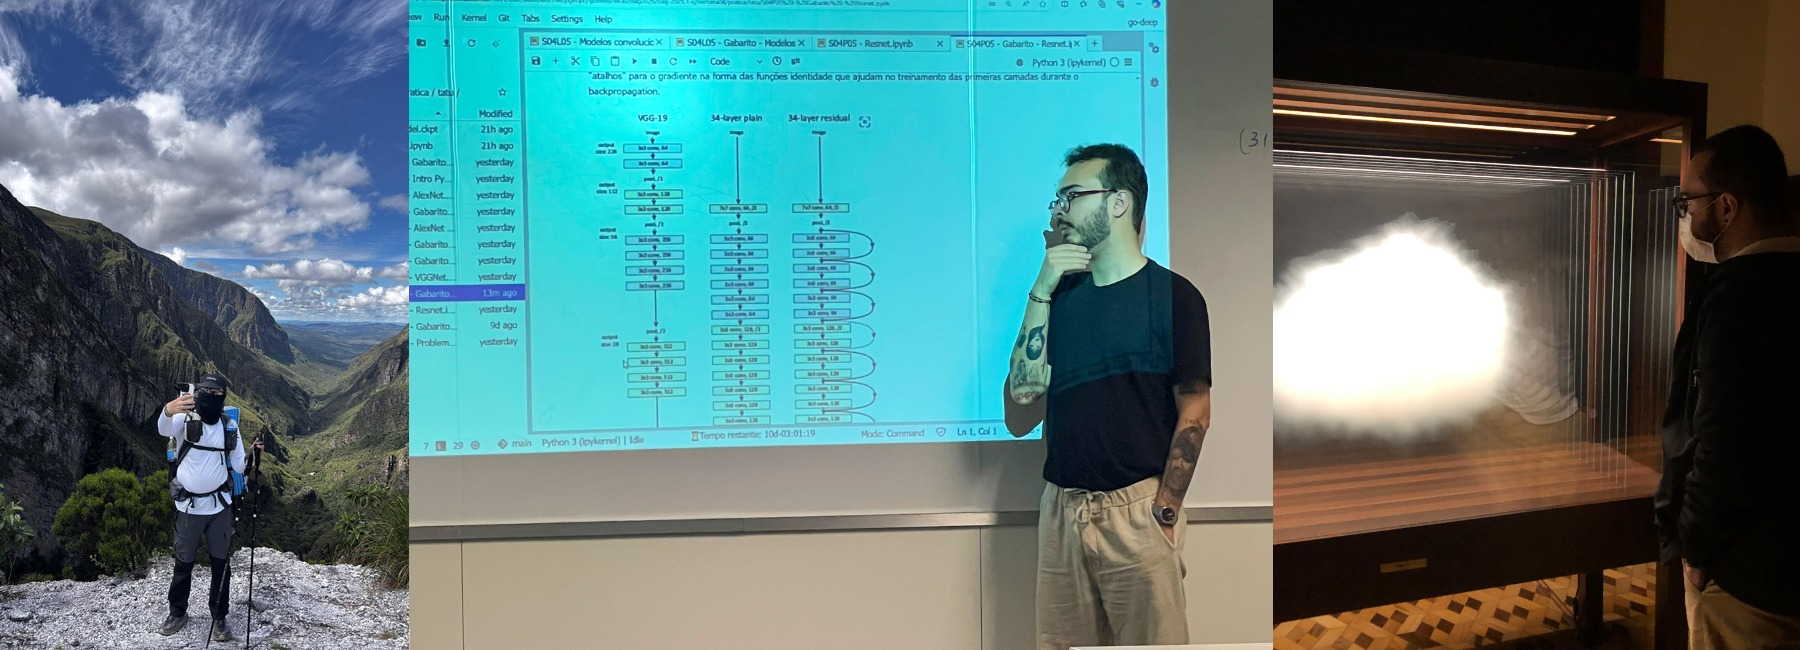
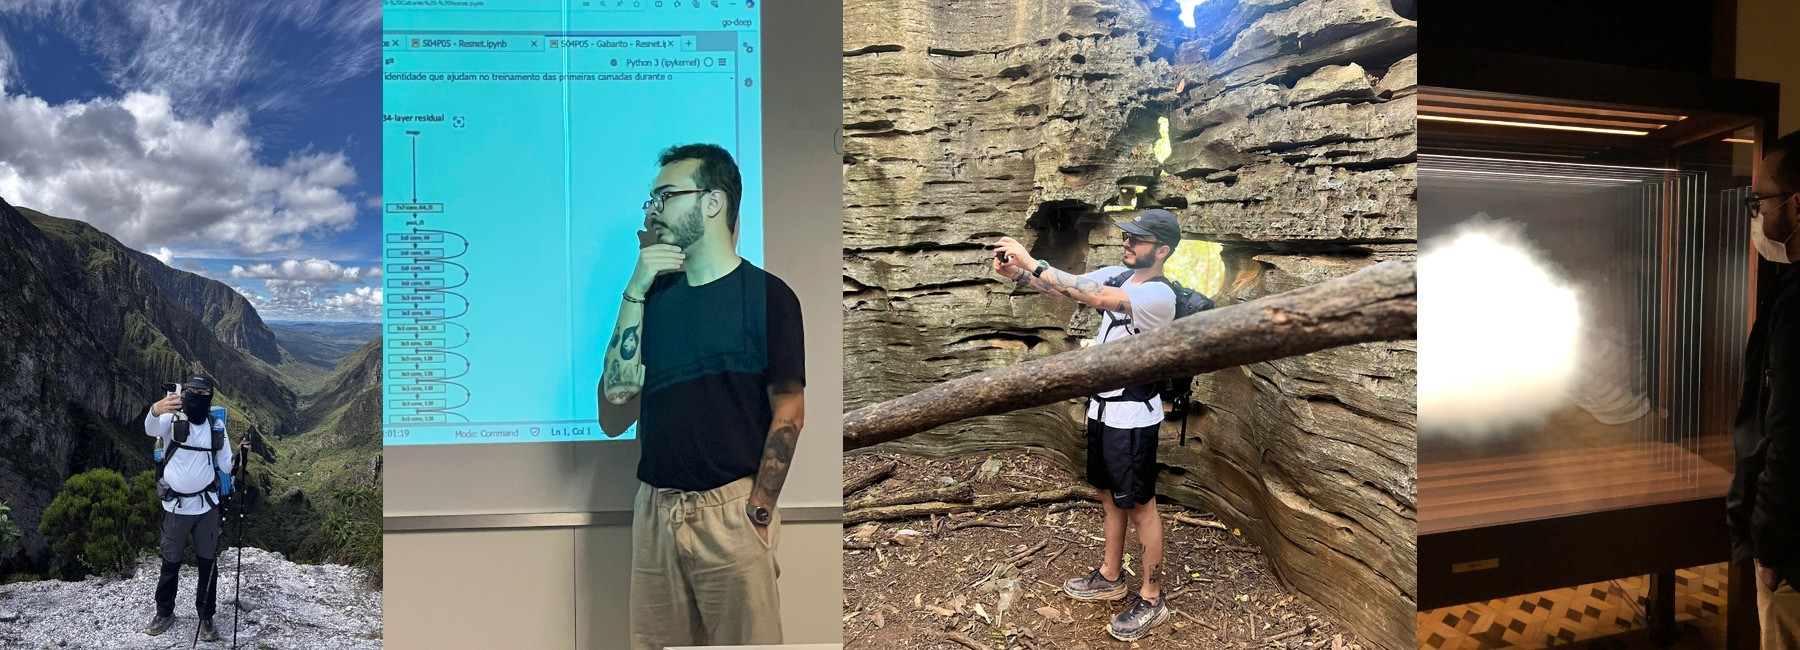
Update timeline, research section, and photos

diff --git a/index.html b/index.html
@@ -25,16 +25,16 @@
 		<!-- Header -->
 			<section id="header">
 				<header>
-					<span class="image avatar"><img src="images/avatar_new.jpeg" alt="" /></span>
+					<span class="image avatar"><img src="images/profile.jpeg" alt="" /></span>
 					<h1 id="logo"><a href="#">João Pedro Pires T.</a></h1>
 					<p>  <i class="fas fa-globe-americas"></i>&nbsp; Belo Horizonte - MG, Brazil </p>
 				</header>
 				<nav id="nav">
 					<ul>
 						<li><a href="#about" class="active">About me</a></li>
-						<li><a href="#experience">Experience</a></li>			
-						<li><a href="#research">Research</a></li>						
+						<li><a href="#experience">Experience</a></li>
 						<li><a href="#education">Timeline</a></li>
+						<li><a href="#research">Research</a></li>
 						<li><a href="#publications">Publications</a></li>
 						<!-- <li><a href="#skills">Skills</a></li> -->
 						<li><a href="#contact">Contact Me</a></li>
@@ -140,6 +140,65 @@
 								</div>
 							</div>
 						</section>
+
+							<section id="education">
+								<div class="container">
+									<header class="major">
+										<h3>Timeline</h3>
+									</header>
+									<div class="container22">
+
+										<div class="timeline-block timeline-block-right">
+										<div class="marker"></div>
+										<div class="timeline-content">
+											<h3>2026-Present</h3>
+											<strong>Sorenson</strong><br>
+											<strong>AI Data Science Specialist</strong>
+											<p>Deep learning models for English to ASL translation.</p>
+										</div>
+										</div>
+
+										<div class="timeline-block timeline-block-left">
+										<div class="marker"></div>
+										<div class="timeline-content">
+											<h3>2025-2026</h3>
+											<strong>Big Data</strong><br>
+											<strong>Senior Data Scientist</strong>
+											<p>ML models for real-time retail and wholesale predictions.</p>
+										</div>
+										</div>
+
+										<div class="timeline-block timeline-block-right">
+										<div class="marker"></div>
+										<div class="timeline-content">
+											<h3>2023-2025</h3>
+											<strong>Petrobras</strong><br>
+											<strong>Research Scientist</strong>
+											<p>Deep learning for automated seismic interpretation.</p>
+										</div>
+										</div>
+
+										<div class="timeline-block timeline-block-left">
+										<div class="marker"></div>
+										<div class="timeline-content">
+											<h3>2023-Present</h3>
+											<strong>M.Sc Computer Science, UFMG</strong>
+											<p>Research on Deep Learning and Generative Modelling.</p>
+										</div>
+										</div>
+
+										<div class="timeline-block timeline-block-right">
+										<div class="marker"></div>
+										<div class="timeline-content">
+											<h3>2019-2022</h3>
+											<strong>B.Sc Physics, UFMG</strong>
+											<p>Concentration in Astrophysics and Computational Physics</p>
+										</div>
+										</div>
+									</div>
+								</div>
+							</section>
+
 						<!-- Two -->
 							<section id="research">
 								<div class="container">
@@ -151,6 +210,37 @@
 									<h4>Current research</h4>
 									<div class="features">
 										<article>
+											<div class="image"><img src="images/mogr_loss_surface.png" alt="Pointwise loss on two-moons data, weighted by the Hessian trace and Frobenius norm" /></div>
+											<div class="inner" data-text="mogr">
+												<span class="title"><h4>Manifold-Oriented Gradient Regularization</h4></span>
+												<p>I study how to anchor decision boundaries to the intrinsic geometry of the data manifold.
+												<span class="more" style="display: none;">
+												<br /><br />Standard training lets decision boundaries cut blindly through the empty, low-density space between samples, leaving models fragile to adversarial perturbations and overconfident off-manifold.
+												<br /><br />I show that making the loss invariant to random, isotropic perturbations of the input is mathematically equivalent to regularizing the loss gradient with the score of the data distribution, via Stein's Identity.
+												<br /><br />This ties the learning process directly to the data manifold, forcing the network to rely only on gradients that are geometrically meaningful, rather than ones shaped by noise in empty ambient space.
+											</span>
+												<br /><br /><button class="button myBtn" onclick="readMore('mogr')">Learn more</button></p>
+											</div>
+										</article>
+
+										<article>
+											<div class="image"><img src="images/mogr_grokking_curve.png" alt="Validation accuracy on modular division, standard training vs. score-regularized training" /></div>
+											<div class="inner" data-text="lora">
+												<span class="title"><h4>Faster Convergence via Score-Guided Fine-Tuning</h4></span>
+												<p>I study optimization and fine-tuning techniques for efficient LoRA and learning transfer.
+												<span class="more" style="display: none;">
+												<br /><br />Because MOGR regularizes the loss with the score of the data distribution, it shapes decision boundaries that are more effective and geometrically meaningful earlier in training.
+												<br /><br />On modular division tasks, score-regularized models reach high validation accuracy in a fraction of the optimization steps needed by standard training, closely related to the grokking phenomenon.
+												<br /><br />I'm extending this to LoRA and other parameter-efficient fine-tuning setups, where faster, more reliable convergence directly cuts the cost of adapting large models.
+											</span>
+												<br /><br /><button class="button myBtn" onclick="readMore('lora')">Learn more</button></p>
+											</div>
+										</article>
+									</div>
+
+										<h4>Past research</h4>
+									<div class="features">
+										<article>
 											<div class="image">
 											<figure>
 												<img src="images/anomalous_data.jpg" alt="MNIST anomalous data"/>
@@ -158,7 +248,7 @@
 												<!-- <figcaption> MNIST anomalous digits </figcaption> -->
 											  </figure>
 											</div>
-											
+
 											<div class="inner" data-text="nfs">
 												<span class="title"><h4>Anomaly detection using NFs</h4></span>
 												<p>I study how to detect and infer anomalous data in the context of likelihood estimation.
@@ -170,7 +260,7 @@
 												<br /><br /><button class="button myBtn" onclick="readMore('nfs')">Learn more</button></p>
 											</div>
 										</article>
-										
+
 										<article>
 											<div class="image"><img src="images/seismicslice.png" alt="Seismic slice from the Wu's dataset (DOI:10.1190/geo2019-0375.1)" /></div>
 											<div class="inner" data-text="seis">
@@ -185,9 +275,7 @@
 												<br /><br /><button class="button myBtn" onclick="readMore('seis')">Learn more</button></p>
 											</div>
 										</article>
-									
-										<h4>Past research</h4>
-									<div class="features">
+
 										<article>
 											<div class="image"><img src="images/isochrone.jpg" alt="" /></div>
 											<div class="inner" data-text="iso">
@@ -233,66 +321,6 @@
 									<div class="container">
 								</div>
 								<br>
-								
-								<section id="education">
-									<div class="container">
-										<header class="major">
-											<h3>Timeline</h3>
-										</header>
-										<div class="container22">
-
-											<div class="timeline-block timeline-block-right">
-											<div class="marker"></div>
-											<div class="timeline-content">
-												<h3>2026-Present</h3>
-												<strong>Sorenson</strong><br>
-												<strong>AI Data Science Specialist</strong>
-												<p>Deep learning models for English to ASL translation.</p>
-											</div>
-											</div>
-
-											<div class="timeline-block timeline-block-left">
-											<div class="marker"></div>
-											<div class="timeline-content">
-												<h3>2025-2026</h3>
-												<strong>Big Data</strong><br>
-												<strong>Senior Data Scientist</strong>
-												<p>ML models for real-time retail and wholesale predictions.</p>
-											</div>
-											</div>
-
-											<div class="timeline-block timeline-block-right">
-											<div class="marker"></div>
-											<div class="timeline-content">
-												<h3>2023-2025</h3>
-												<strong>Petrobras</strong><br>
-												<strong>Research Scientist</strong>
-												<p>Deep learning for automated seismic interpretation.</p>
-											</div>
-											</div>
-
-											<div class="timeline-block timeline-block-left">
-											<div class="marker"></div>
-											<div class="timeline-content">
-												<h3>2023-Present</h3>
-												<strong>M.Sc Computer Science, UFMG</strong>
-												<p>Research on Deep Learning and Generative Modelling.</p>
-											</div>
-											</div>
-
-											<div class="timeline-block timeline-block-right">
-											<div class="marker"></div>
-											<div class="timeline-content">
-												<h3>2019-2022</h3>
-												<strong>B.Sc Physics, UFMG</strong>
-												<p>Concentration in Astrophysics and Computational Physics</p>
-											</div>
-											</div>
-										</div>
-									
-										
-									</div>
-							</section>
 							<!-- Four -->
 							<!-- <section id="skills">
 								<div class = "container">
